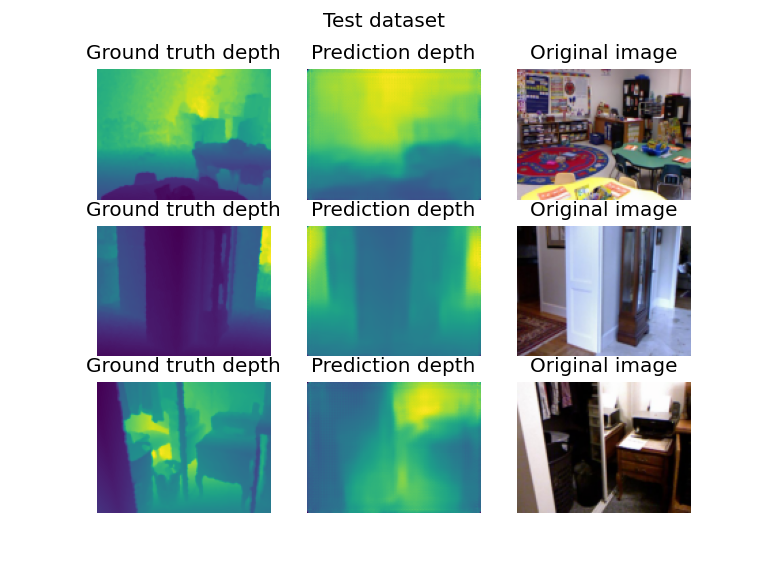
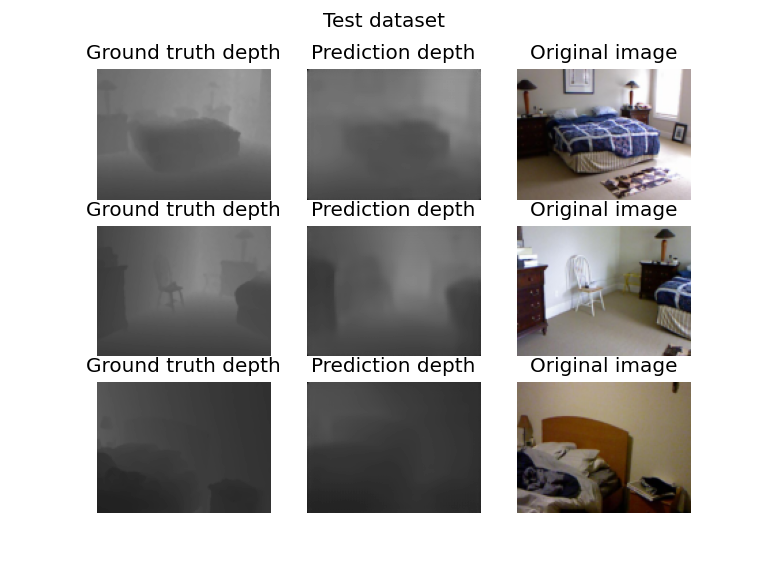
new model results

diff --git a/getbest.py b/getbest.py
@@ -38,19 +38,16 @@ def visualize_sample(model, img, gt_depth, loss, title, nsamples=3):
             disp = model(img)
             depth = 1 / disp
 
-            # Limit values
-            depth = torch.clamp(depth, min=1e-3, max=10)
-
         # Conversion to numpy
         image_numpy = torch.squeeze(denormalize(img)).swapaxes(0,1).swapaxes(1,2).to(torch.uint8).cpu().numpy()
         gt_depth_numpy = torch.squeeze(gt_depth).detach().cpu().numpy()
         depth_numpy = torch.squeeze(depth).detach().cpu().numpy()
 
         # Visualize
-        ax[r*3].imshow(gt_depth_numpy, vmin=0, vmax=10, cmap='gray')
+        ax[r*3].imshow(gt_depth_numpy)
         ax[r*3].set_axis_off()
         ax[r*3].set_title('Ground truth depth')
-        ax[r*3+1].imshow(depth_numpy, vmin=0, vmax=10, cmap='gray')
+        ax[r*3+1].imshow(depth_numpy)
         ax[r*3+1].set_axis_off()
         ax[r*3+1].set_title('Prediction depth')
         ax[r*3+2].imshow(image_numpy)
@@ -95,6 +92,7 @@ def test(model, test_set, title):
         with torch.no_grad():
             # Prediction
             disparities = model(tgt_img)
+
             depth = 1 / disparities
             
             # Calculate loss
@@ -113,6 +111,7 @@ def test(model, test_set, title):
                 worst_img, worst_dpt, worst_loss = tgt_img, gt_depth, loss.item()
 
             torch.cuda.empty_cache()
+
 
     # Print results on training dataset
     print('------------------------------------------------')

diff --git a/evaluate.py b/evaluate.py
@@ -49,10 +49,10 @@ def visualize_sample(model, dataset, title, nsamples=3):
         depth_numpy = torch.squeeze(depth).detach().cpu().numpy()
 
         # Visualize
-        ax[r*3].imshow(gt_depth_numpy, vmin=0, vmax=10, cmap='gray')
+        ax[r*3].imshow(gt_depth_numpy)
         ax[r*3].set_axis_off()
         ax[r*3].set_title('Ground truth depth')
-        ax[r*3+1].imshow(depth_numpy, vmin=0, vmax=10, cmap='gray')
+        ax[r*3+1].imshow(depth_numpy)
         ax[r*3+1].set_axis_off()
         ax[r*3+1].set_title('Prediction depth')
         ax[r*3+2].imshow(image_numpy)

diff --git a/hyperparameters.py b/hyperparameters.py
@@ -3,12 +3,12 @@ W1, W2 = 1, 1e-3 # Loss weights
 LR = 1e-3
 EPOCHS = 200
 BATCH_SIZE = 64
-GAMMA, STEP = 1, 10000
+GAMMA, STEP = 0.1, 150
 USE_SCHEDULER = False
-LOSS = 'behru'
-SMOOTH_L1 = False
+LOSS = 'l1'
+SMOOTH_L1 = True
 SMOOTH_THRESH = 0.5
-MODEL_NAME = '2021_08_08_N06'
+MODEL_NAME = '2021_08_08_N08'
 
 # Transformations
 BORDER_SIZE = 10
@@ -23,7 +23,7 @@ MIXUP = False
 MIXUP_SIZE = 0.4
 
 # Blend
-BLEND = True
+BLEND = False
 BLEND_SIZE = 0.2
 
 # Rotation

diff --git a/train.py b/train.py
@@ -76,7 +76,7 @@ def train(batch_size, epochs):
     model = DepthNet().to(device)
 
     # Optimizer setup
-    optimizer = Adam(model.parameters(), lr=lr, betas=(0.9, 0.999)) # ,weight_decay=0.1
+    optimizer = torch.optim.AdamW(model.parameters(), lr=lr, betas=(0.9, 0.999)) # ,weight_decay=0.1
     scheduler = torch.optim.lr_scheduler.StepLR(optimizer, step_size=step, gamma=gamma, verbose = True)
 
     print('Training...')
